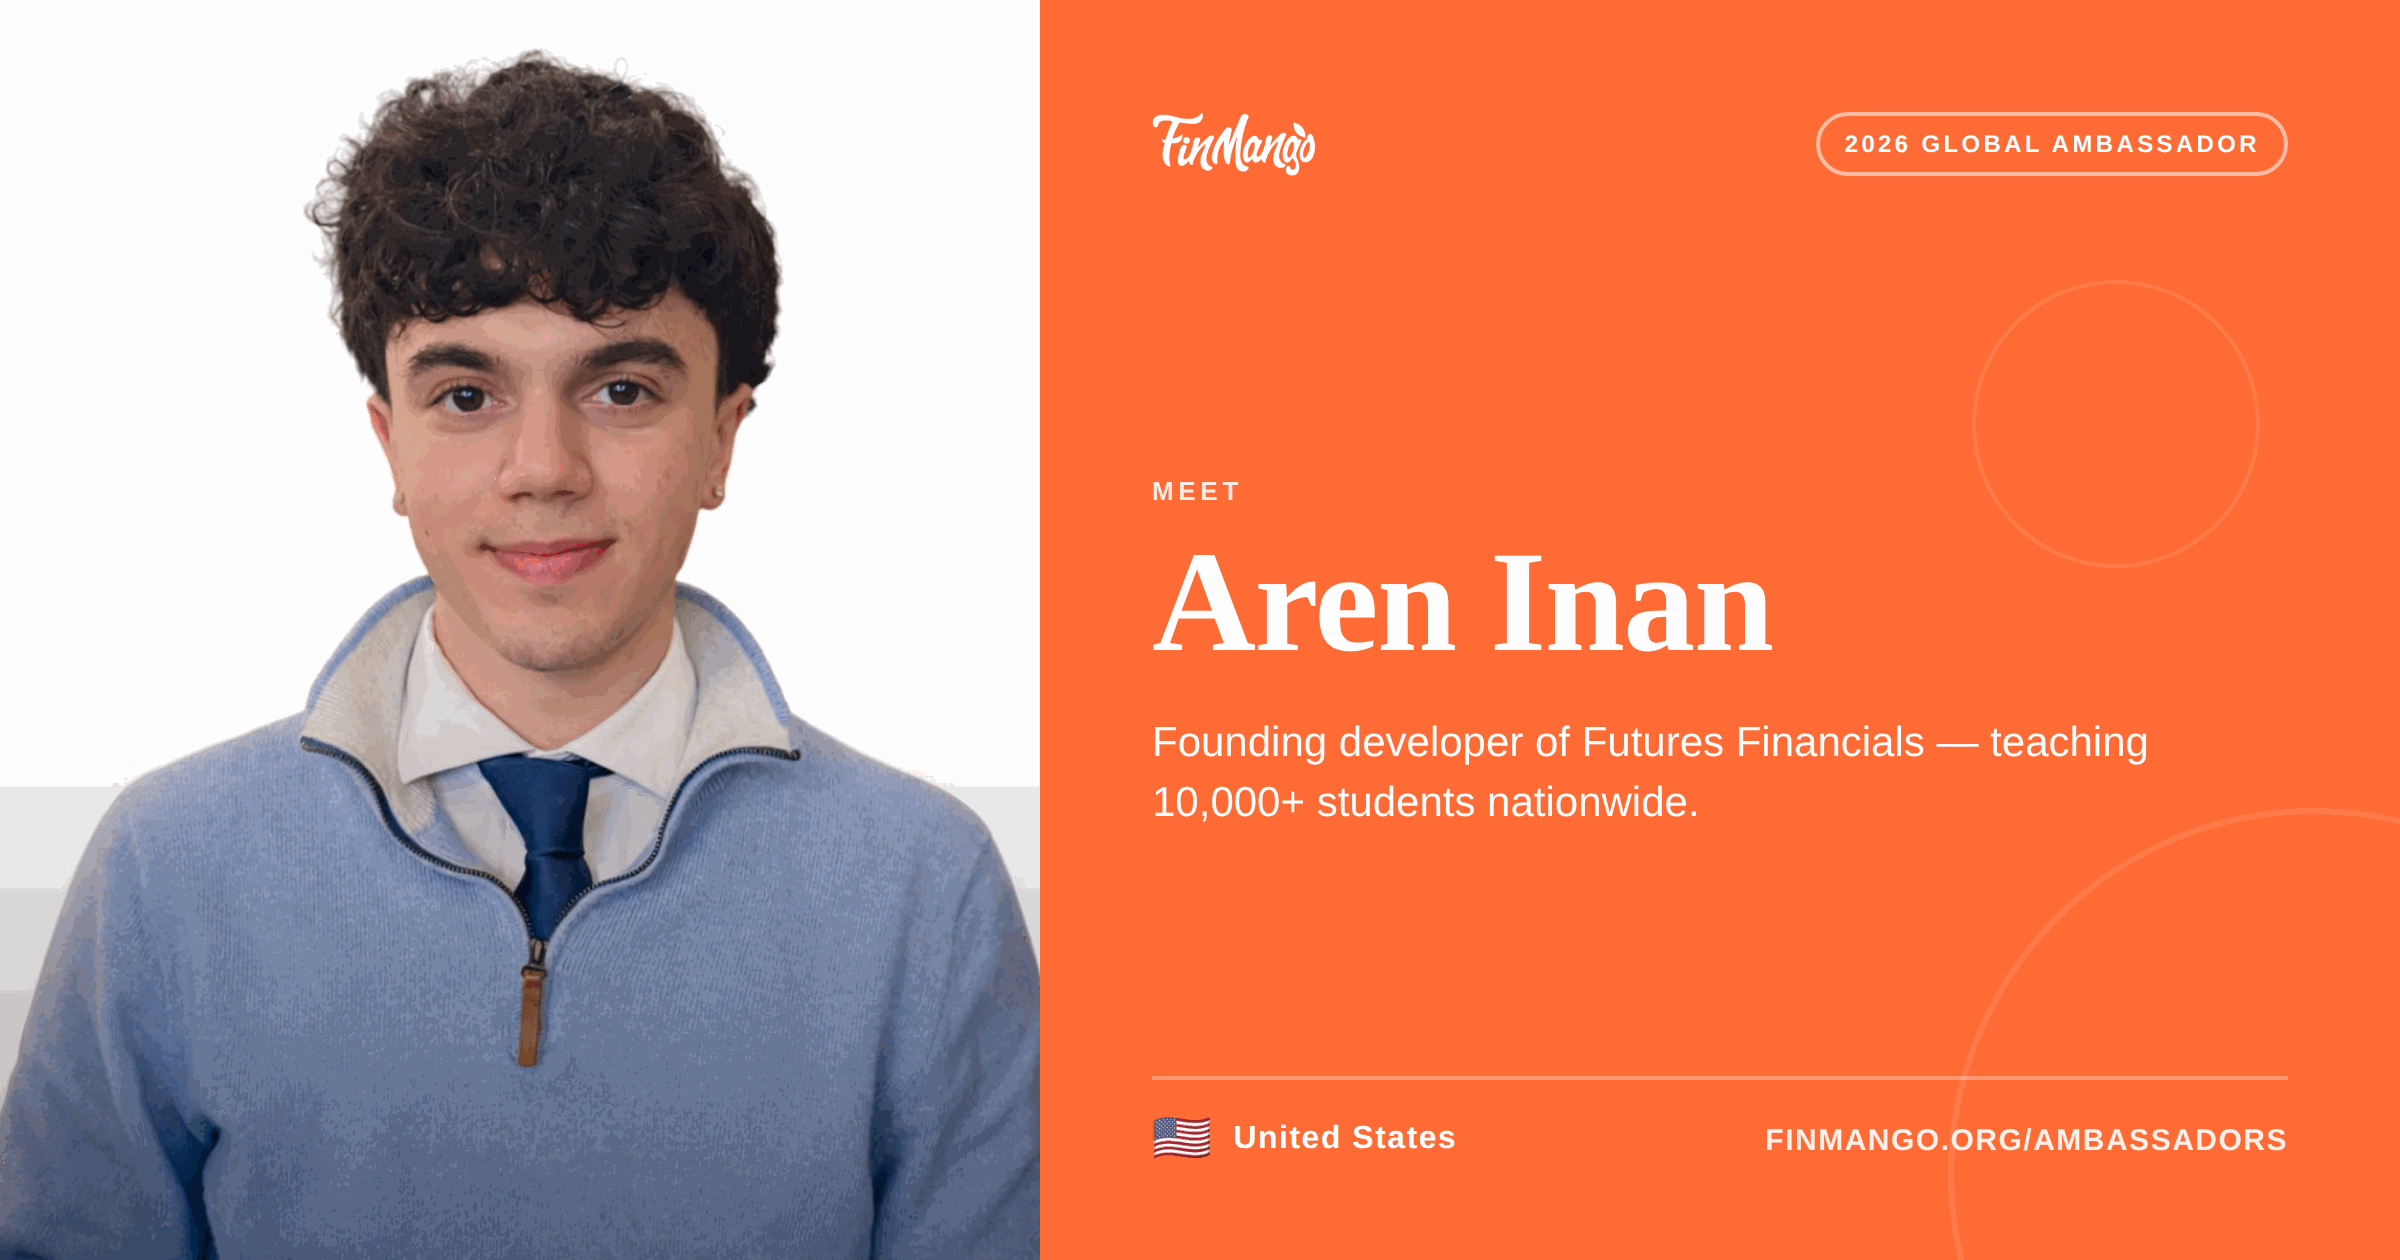
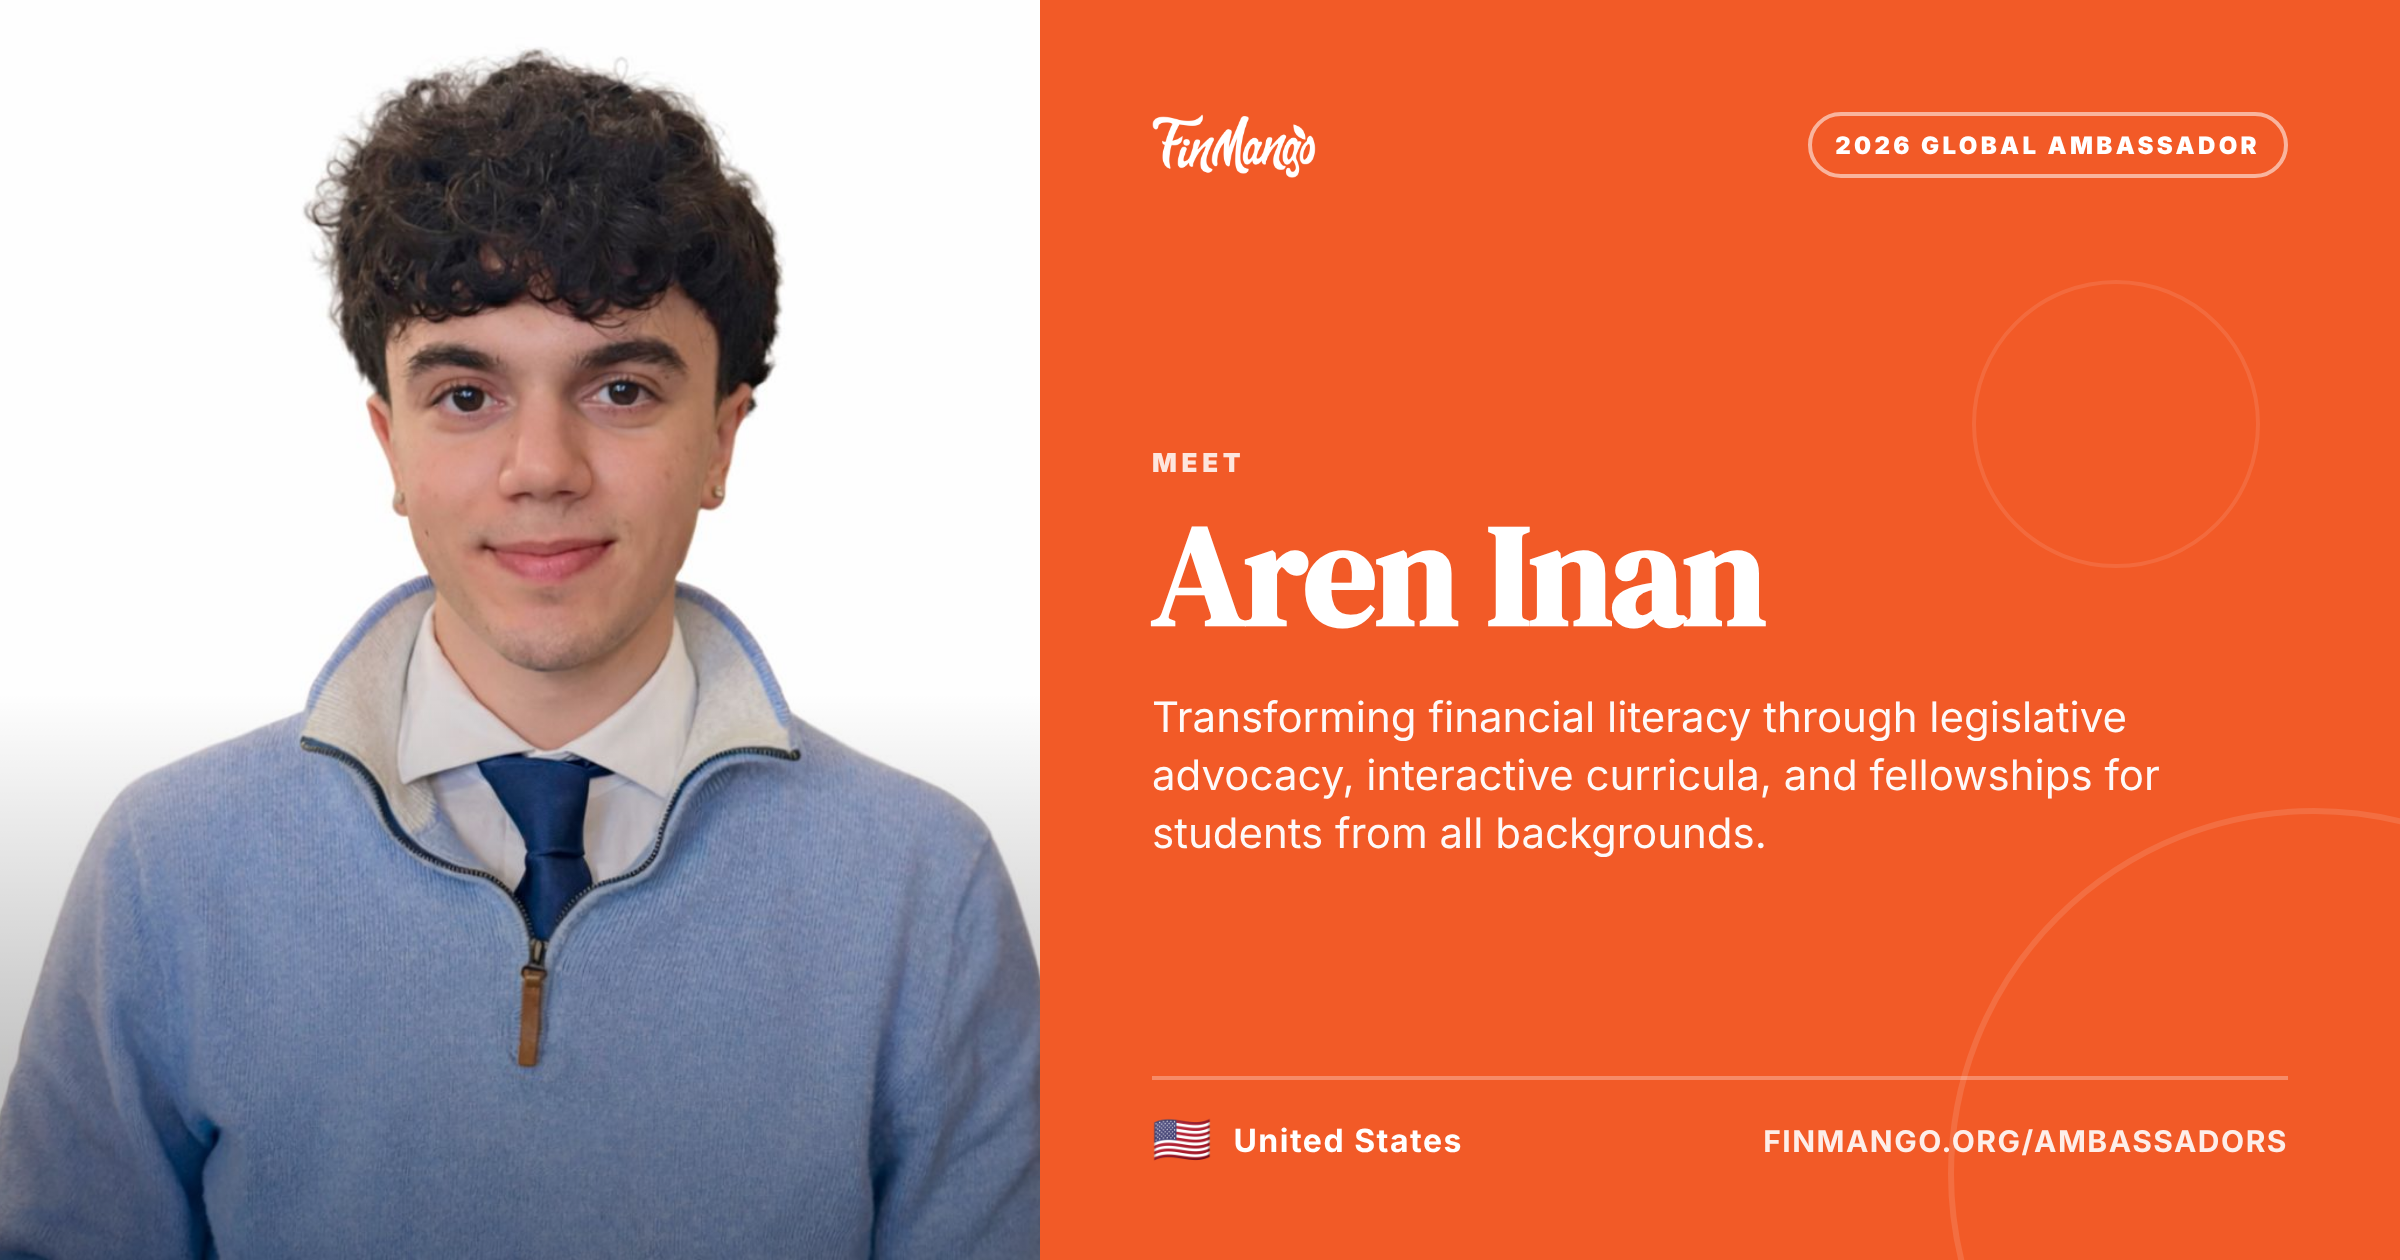
Update Aren Inan's ambassador profile
Replace the hero bio, one-liner, and page descriptions with the text
Aren sent on Oct 14, and regenerate his social-share image so it carries
the new tagline.

Claude-Session: https://claude.ai/code/session_01HjEJqBAwAdTQ9EuuKbAmTu

diff --git a/aren-inan.html b/aren-inan.html
@@ -5,7 +5,7 @@
 <meta charset="UTF-8">
 <meta name="viewport" content="width=device-width, initial-scale=1.0">
 <title>Aren Inan - 2026 Global Ambassador | FinMango</title>
-<meta name="description" content="Founding developer of Futures Financials curriculum — teaching 10,000+ students nationwide. Aren Inan is a 2026 FinMango Global Ambassador.">
+<meta name="description" content="Transforming financial literacy through legislative advocacy, interactive curricula, and fellowships for students from all backgrounds. Aren Inan is a 2026 FinMango Global Ambassador.">
 <meta name="keywords" content="financial literacy, FinMango ambassador, Aren Inan, USA">
 <meta name="author" content="FinMango">
 <link rel="icon" type="image/png" href="favicon.png">
@@ -25,7 +25,7 @@
 <meta property="og:type" content="profile">
 <meta property="og:url" content="https://www.finmango.org/aren-inan">
 <meta property="og:title" content="Aren Inan - 2026 Global Ambassador | FinMango">
-<meta property="og:description" content="Founding developer of Futures Financials curriculum — teaching 10,000+ students nationwide.">
+<meta property="og:description" content="Transforming financial literacy through legislative advocacy, interactive curricula, and fellowships for students from all backgrounds.">
 <meta property="og:image" content="https://www.finmango.org/ambassadors/aren-inan-og.png">
 <meta property="og:image:width" content="1200">
 <meta property="og:image:height" content="630">
@@ -35,7 +35,7 @@
 <meta name="twitter:card" content="summary_large_image">
 <meta name="twitter:image" content="https://www.finmango.org/ambassadors/aren-inan-og.png">
 <meta name="twitter:title" content="Aren Inan - 2026 Global Ambassador">
-<meta name="twitter:description" content="Founding developer of Futures Financials curriculum — teaching 10,000+ students nationwide.">
+<meta name="twitter:description" content="Transforming financial literacy through legislative advocacy, interactive curricula, and fellowships for students from all backgrounds.">
 
 <!-- Additional SEO -->
 <link rel="canonical" href="https://www.finmango.org/aren-inan">
@@ -1287,10 +1287,10 @@
           <span class="eyebrow">Global ambassador</span>
           <h1>Aren <em>Inan<svg class="hand-stroke" viewBox="0 0 300 12" preserveAspectRatio="none" aria-hidden="true"><path d="M4 8 C 50 3, 110 10, 160 6 S 260 4, 296 7"/></svg></em></h1>
           <p class="hero-tagline">
-            Founding developer of Futures Financials curriculum — teaching 10,000+ students nationwide.
+            Transforming financial literacy through legislative advocacy, interactive curricula, and fellowships for students from all backgrounds.
           </p>
           <p class="hero-bio">
-            Aren is an entrepreneur from Ridgefield, New Jersey at Bergen County Technical High School - Teterboro. He teaches a dual-semester 10-week program at his school, founded and developed the Futures Financials curriculum that's reached 10,000 students nationwide with a 95% literacy rate improvement, and has presented on financial illiteracy on the state stage while proposing new legislation.
+            Aren Inan is from Ridgefield, New Jersey, passionate about finance, economics, and financial health for all communities. As a co-founder of Futures Financials Inc., he has taught over 15,000 students through 18 chapters in 7 nations. He secured over $40,000 in funding and built partnerships with Google Health, the Jump$tart Coalition, Next Gen Personal Finance, and more. He has earned the 2026 Global Recognition Award for his leadership in advancing financial health, placing him in the top 5.8% of 15,000 applicants. Also, he is a founding officer at the Financial Literacy for Youth (FLY) Initiative, where he researches Senate Bill S-3462 with Senator Vin Gopal and Rutgers Professor Dr. John Longo, oversees 13+ chapters, and is deploying New Jersey's first Student Financial Readiness Audit. The audit is the state's first large-scale data collection effort centered on student competency, and Aren is testifying at hearings in support of the bill in Fall 2026. Lastly, he developed Project Finance, a 10-week financial technology program that grew enrollment 233% across two cohorts, with a 95% improvement in literacy rate.
           </p>
         </div>
 

diff --git a/ambassadors/generate-og.js b/ambassadors/generate-og.js
@@ -10,7 +10,7 @@ const AMBASSADORS_2026 = [
   { slug: 'harshil-shah',        name: 'Harshil Shah',         photo: '../38_Updated.jpg', flag: '🇺🇸', country: 'United States',      tagline: 'Co-founder of the Carolina Wealth Initiative — teaching financial health across campus and community.' },
   { slug: 'eduardo-charles-alba',name: 'Eduardo Charles Alba', photo: '../39.jpg', flag: '🇩🇴', country: 'Dominican Republic', tagline: 'Connecting data, institutions, and communities to make financial health actionable.' },
   { slug: 'caleb-vales',         name: 'Caleb Vales',          photo: '../40.jpg', flag: '🇺🇸', country: 'United States',      tagline: 'Community events, content, and classroom advocacy for financial literacy.' },
-  { slug: 'aren-inan',           name: 'Aren Inan',            photo: '../41.jpg', flag: '🇺🇸', country: 'United States',      tagline: 'Founding developer of Futures Financials — teaching 10,000+ students nationwide.' },
+  { slug: 'aren-inan',           name: 'Aren Inan',            photo: '../41.jpg', flag: '🇺🇸', country: 'United States',      tagline: 'Transforming financial literacy through legislative advocacy, interactive curricula, and fellowships for students from all backgrounds.' },
   { slug: 'hayley-foote',        name: 'Hayley Foote',         photo: '../42.jpg', flag: '🇺🇸', country: 'United States',      tagline: 'Building a campus Financial Health System at Ohio State.' },
   { slug: 'sophie-hong',         name: 'Sophie Hong',          photo: '../43.jpg', flag: '🇺🇸', country: 'United States',      tagline: 'Financial literacy for vulnerable communities.' },
   { slug: 'devin-acar',           name: 'Devin Acar',           photo: '../45.jpg', flag: '🇺🇸', country: 'United States',      tagline: 'Researching why financial confidence — not knowledge — makes money work.' },
